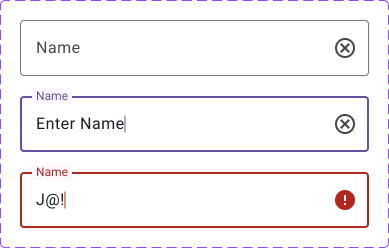
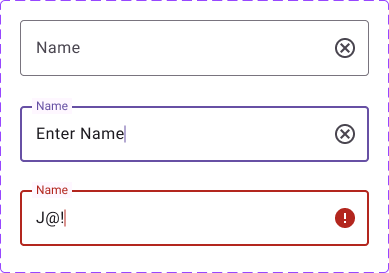
Release Build "Aurora"
v2.12-alpha

- added database seed for testing employee page

- readded name field UI for debugging purposes

diff --git a/CMPT395Aurora/app/src/main/java/com/example/cmpt395aurora/ComponentFunctions/NavigationBar.kt b/CMPT395Aurora/app/src/main/java/com/example/cmpt395aurora/ComponentFunctions/NavigationBar.kt
@@ -1,5 +1,5 @@
 /**
- * navigation bar v1.8
+ * navigation bar v2.0
  *
  * - focused/selected state for icons (imported from figma) (1.4)
  * - Removed native components in favor of full relay imports from previous versions (1.5)
@@ -7,6 +7,10 @@
  * - Added modifiers to adjust size of navigation bar box (1.7)
  * - Removed imported Bar toplevel because of unalterable padding around icons, replaced
  *   with native nav bar and placed imported icons/states inside of it for more control (1.8)
+ *
+ * 2.0:
+ *  - new column/box layout to have proper ripple/focused effects
+ *  - Employee icon only in this version - need to do other two icons
  *
  * - Refs:
  *      - https://developer.android.com/jetpack/compose/modifiers
@@ -23,10 +27,13 @@ import androidx.compose.foundation.layout.fillMaxWidth
 import androidx.compose.foundation.layout.height
 import androidx.compose.foundation.layout.padding
 import androidx.compose.foundation.layout.size
+import androidx.compose.foundation.shape.CircleShape
 import androidx.compose.material3.MaterialTheme
 import androidx.compose.runtime.Composable
 import androidx.compose.runtime.getValue
+import androidx.compose.ui.Alignment
 import androidx.compose.ui.Modifier
+import androidx.compose.ui.draw.clip
 import androidx.compose.ui.unit.dp
 import androidx.navigation.NavController
 import androidx.navigation.compose.currentBackStackEntryAsState
@@ -89,11 +96,18 @@ fun EmployeeIcon(navController: NavController) {
 
     if (currentRoute == "employee1") {
         Box(
-            modifier = Modifier.clickable { /* No action needed if already on the page */ }
+            modifier = Modifier
                 .padding(0.dp) // Adjust padding as needed
                 .size(65.dp) // Adjust size as needed
         ) {
-            Segment1Property1Variant2(modifier = Modifier) {
+            Box(
+                modifier = Modifier
+                    .matchParentSize()
+                    .clip(CircleShape)
+                    .clickable { /* No action needed if already on the page */ }
+                    .align(Alignment.Center) // Align to center
+            )
+            Segment1Property1Variant2(modifier = Modifier.align(Alignment.Center)) { // Align to center
                 IconContainer2aProperty1Variant2 {
                     StateLayer2aProperty1Variant2 {
                         Icon2aProperty1Variant2 {
@@ -108,11 +122,18 @@ fun EmployeeIcon(navController: NavController) {
         }
     } else {
         Box(
-            modifier = Modifier.clickable { navController.navigate("employee1") }
-                .padding(0.dp) // Adjust padding as needed
-                .size(65.dp) // Adjust size as needed
+            modifier = Modifier
+                .padding(0.dp) // Adjust padding if needed
+                .size(65.dp) // Adjust size if needed
         ) {
-            Segment1Property1Default(modifier = Modifier) {
+            Box(
+                modifier = Modifier
+                    .matchParentSize()
+                    .clip(CircleShape)
+                    .clickable { navController.navigate("employee1") }
+                    .align(Alignment.Center) // tried to make it bigger no joy
+            )
+            Segment1Property1Default(modifier = Modifier.align(Alignment.Center)) { // Align to center
                 IconContainer1aProperty1Default {
                     StateLayer1aProperty1Default {
                         Icon1aProperty1Default {
@@ -173,7 +194,6 @@ fun ScheduleIcon(navController: NavController) {
         }
     }
 }
-
 
 @Composable
 fun SettingIcon(navController: NavController) {

diff --git a/CMPT395Aurora/app/src/main/java/com/example/cmpt395aurora/database/databasehelper.kt b/CMPT395Aurora/app/src/main/java/com/example/cmpt395aurora/database/databasehelper.kt
@@ -1,10 +1,13 @@
 /**
- *  database helper v1.0
+ *  database helper v1.1
  *  some ref's used in the creation of our database:
  *  - https://developer.android.com/training/data-storage/sqlite
  *  - https://abhiandroid.com/database/sqlite
  *  - https://www.freecodecamp.org/news/how-to-use-sqlite-database-with-android-studio/
  *  - https://www.androidauthority.com/sqlite-primer-for-android-811987/
+ *
+ *  v1.1:
+ *      - added clear for seed testing
  */
 
 package com.example.cmpt395aurora.database
@@ -47,7 +50,7 @@ class DatabaseHelper(context: Context) :
         db.close()
         return result != -1L
     }
-    // get all employees for list
+    // get all employees for list (maybe obsolete)
     fun getAllEmployees(): List<Employee> {
         val employees = ArrayList<Employee>()
         val db = this.readableDatabase
@@ -70,5 +73,11 @@ class DatabaseHelper(context: Context) :
         val result = db.delete("employees", "id = ?", arrayOf(id.toString())).toLong()
         db.close()
         return result != -1L
+    }
+    // clear database for seed testing
+    fun clearDatabase() {
+        val db = this.writableDatabase
+        db.delete("employees", null, null)
+        db.close()
     }
 }

diff --git a/CMPT395Aurora/app/src/main/java/com/example/cmpt395aurora/screens/MainActivity.kt b/CMPT395Aurora/app/src/main/java/com/example/cmpt395aurora/screens/MainActivity.kt
@@ -1,6 +1,6 @@
 /**
- *   Main page
- *   v1.02
+ *   Main page v1.03
+ *
  *      - to implement weekly calendar from prototype would like to test implementing complicated
  *        figma components, if i have time, but it is not necessary at all - Jamie
  *
@@ -9,7 +9,11 @@
  *        - https://developer.android.com/codelabs/basic-android-kotlin-compose-navigation
  *        - https://saurabhjadhavblogs.com/ultimate-guide-to-jetpack-compose-navigation
  *        - https://developer.android.com/jetpack/compose/components/scaffold
+ *
+ *   v1.04
+ *      - added seed logic, for testing
  */
+
 
 package com.example.cmpt395aurora.screens
 
@@ -24,6 +28,7 @@ import androidx.navigation.compose.rememberNavController
 import com.example.cmpt395aurora.ComponentFunctions.NavigationBar
 import com.example.cmpt395aurora.ComponentFunctions.TopBar
 import com.example.cmpt395aurora.Navigation
+import com.example.cmpt395aurora.database.employees.seedDatabase
 import com.example.cmpt395aurora.ui.theme.CMPT395AuroraTheme
 
 class MainActivity : ComponentActivity() {
@@ -44,6 +49,7 @@ class MainActivity : ComponentActivity() {
                 }
             }
         }
+        seedDatabase(this)
     }
 }
 

diff --git a/CMPT395Aurora/app/src/main/java/com/example/cmpt395aurora/database/employees/SeedDatabaseTest.kt b/CMPT395Aurora/app/src/main/java/com/example/cmpt395aurora/database/employees/SeedDatabaseTest.kt
@@ -1,0 +1,21 @@
+package com.example.cmpt395aurora.database.employees
+
+import android.content.Context
+import com.example.cmpt395aurora.database.DatabaseHelper
+
+// seed database
+fun seedDatabase(context: Context) {
+    val dbHelper = DatabaseHelper(context)
+    dbHelper.clearDatabase()
+
+    dbHelper.addEmployee("Justin Time", "Time Management Coach")
+    dbHelper.addEmployee("Anita Hand", "Assistant Principal")
+    dbHelper.addEmployee("Eura Lee", "Morning Supervisor")
+    dbHelper.addEmployee("Aaron DeHurry", "Track Coach")
+    dbHelper.addEmployee("Wanda Help", "Guidance Counselor")
+    dbHelper.addEmployee("Will Startnow", "Procrastination Therapist")
+    dbHelper.addEmployee("Ima Late", "Tardy Monitor")
+    dbHelper.addEmployee("Evan Elpful", "Peer Tutor")
+    dbHelper.addEmployee("Savannah Day", "Day Planner")
+    dbHelper.addEmployee("Upton O'Goode", "Behavioral Specialist")
+}
